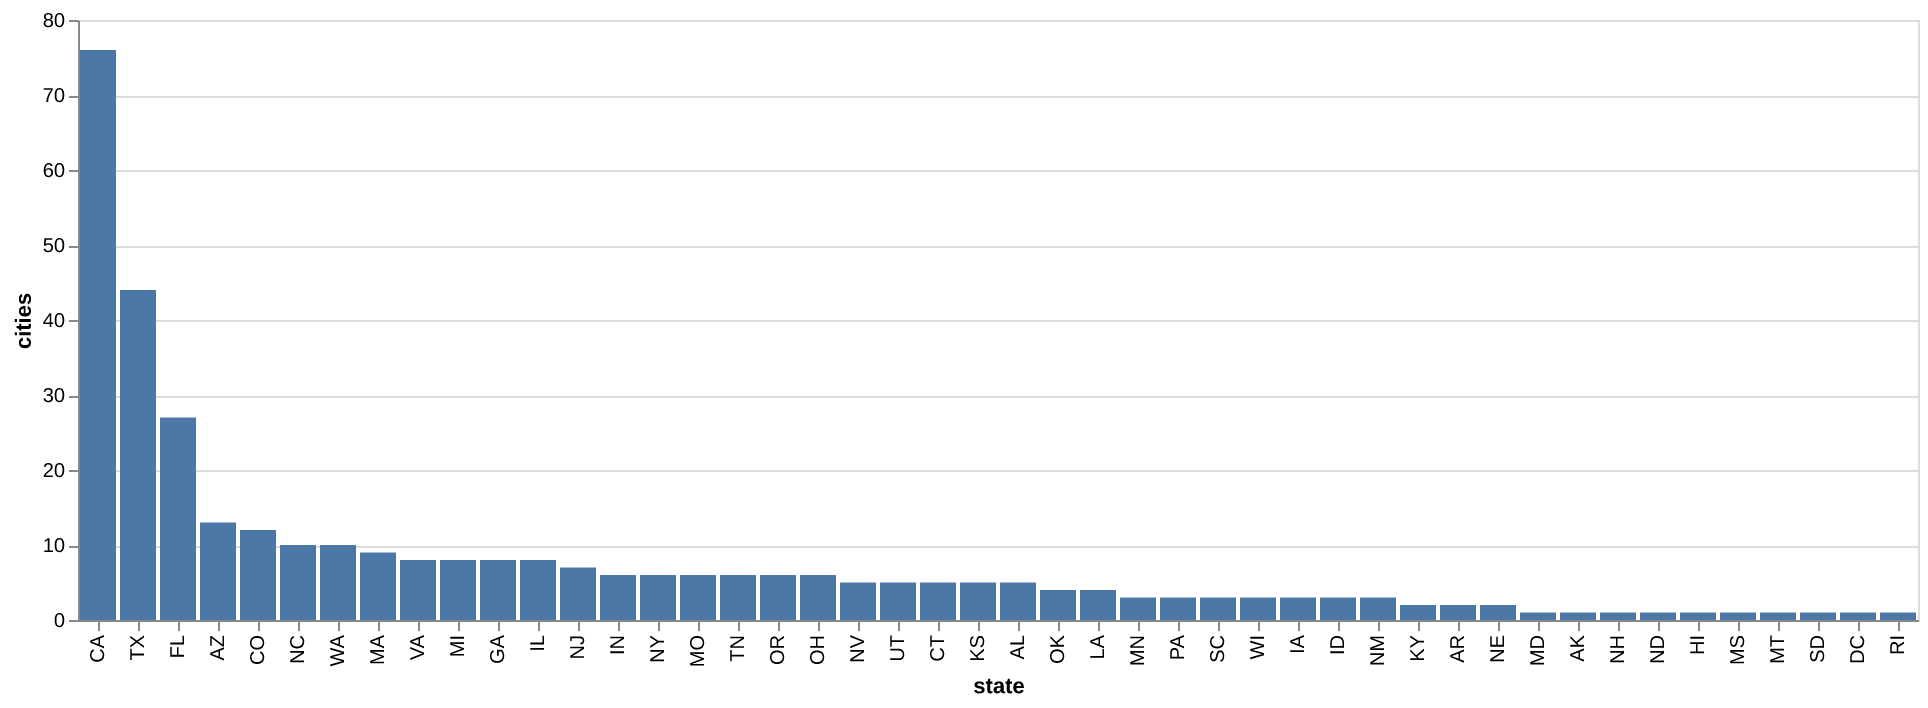
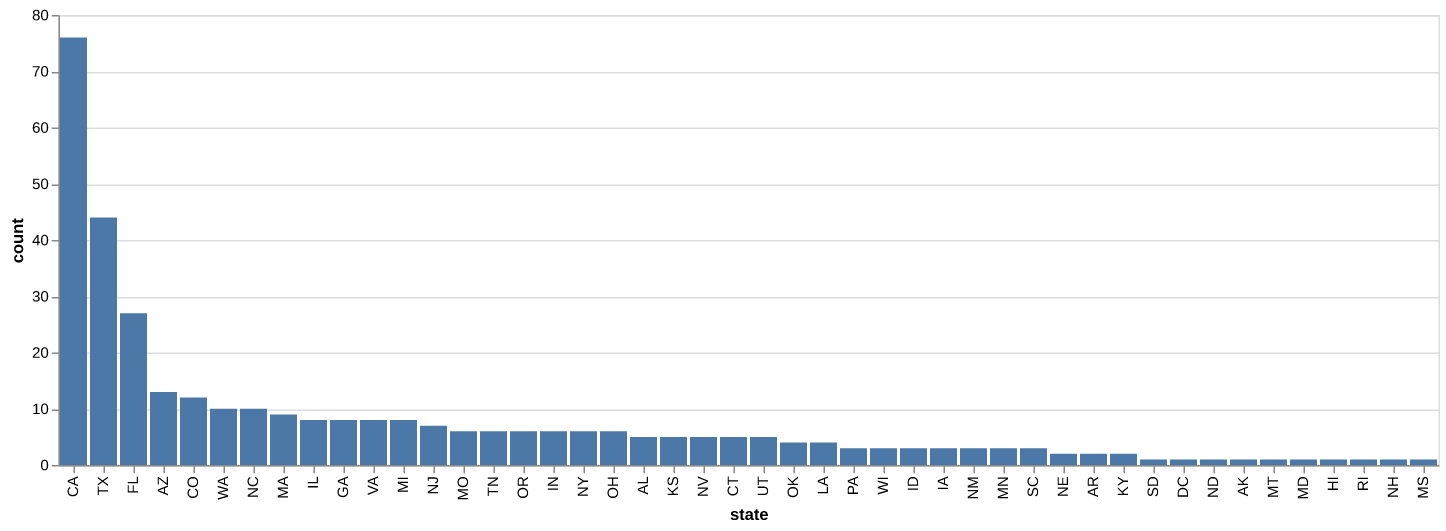
update problems

diff --git a/cs2/data-vis/demo.py b/cs2/data-vis/demo.py
@@ -1,5 +1,36 @@
 import polars as pl
+import altair as alt
 
 cities = pl.read_csv("data/cities.csv")  # Load dataframe from CSV
 
-print((cities.group_by("state").count().sort("count", descending=True)))
+
+topCities = cities.head(20)
+chart = (
+    alt.Chart(topCities).mark_bar().encode(alt.X("pop2024"), alt.Y("city", sort="-x"))
+)
+chart.save("pop-bars.png", scale_factor=1.5)
+
+
+cityCounts = cities.group_by("state").count()
+
+chart = (
+    alt.Chart(cityCounts).mark_bar().encode(alt.X("state", sort="-y"), alt.Y("count"))
+)
+chart.save("city-counts.png", scale_factor=1.5)
+
+
+## Scatter Plot
+
+top25 = cities.head(25)
+
+chart = (
+    alt.Chart(top25)
+    .mark_circle(size=40)
+    .encode(
+        alt.X("area"),
+        alt.Y("pop2024"),
+        alt.Color("state"),
+    )
+)
+
+chart.save("pop-area-scatter.png", scale_factor=1.5)

diff --git a/cs2/data-vis/README.md b/cs2/data-vis/README.md
@@ -951,7 +951,7 @@ cities = pl.read_csv("data/cities.csv") # Load dataframe from CSV
 ```py
 topCities = cities.head(20)
 chart = alt.Chart(topCities).mark_bar().encode(alt.X("pop2024"), alt.Y("city", sort="-x"))
-chart.save("pop-bars.png", scale_factor = 2)
+chart.save("pop-bars.png", scale_factor = 1.5)
 ```
 
 ![](pop-bars.png)
@@ -961,11 +961,10 @@ cityCounts = (
     cities
         .group_by("state")
         .count()
-        .sort("count", descending = True)
 )
 
-chart = alt.Chart(cityCounts).mark_bar().encode(alt.X("state", sort = "-y"), alt.Y("cities"))
-chart.save("city-counts.png", scale_factor = 2)
+chart = alt.Chart(cityCounts).mark_bar().encode(alt.X("state", sort = "-y"), alt.Y("count"))
+chart.save("city-counts.png", scale_factor = 1.5)
 ```
 
 ![](city-counts.png)
@@ -981,7 +980,7 @@ chart = alt.Chart(top25).mark_circle(size = 40).encode(
     alt.Color("state"),
 )
 
-chart.save("pop-area-scatter.png", scale_factor = 2)
+chart.save("pop-area-scatter.png", scale_factor = 1.5)
 ```
 
 ![](pop-area-scatter.png)
